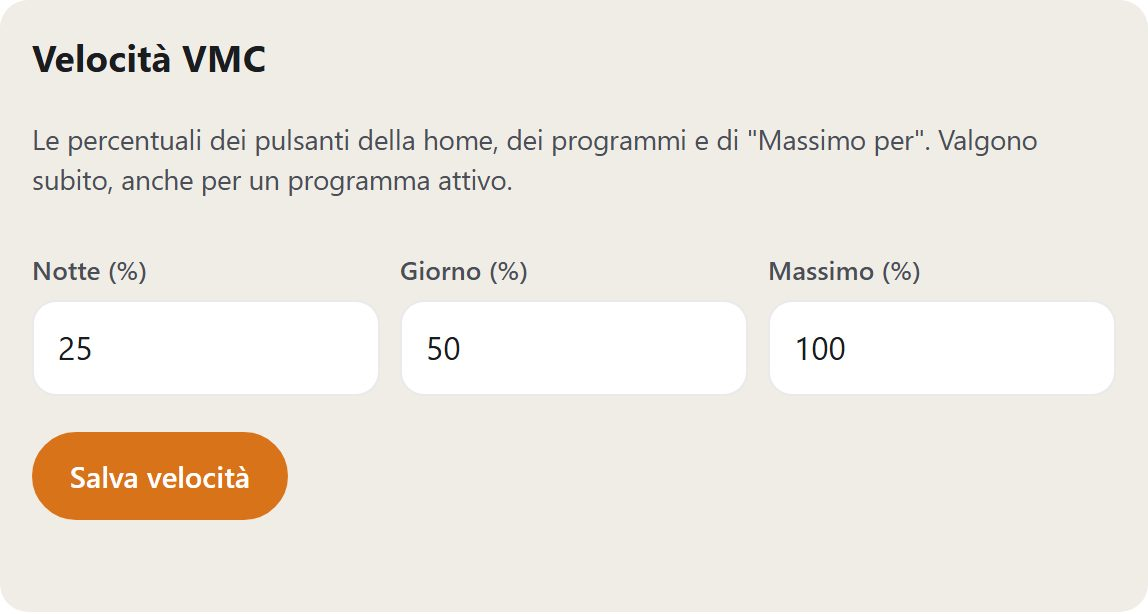
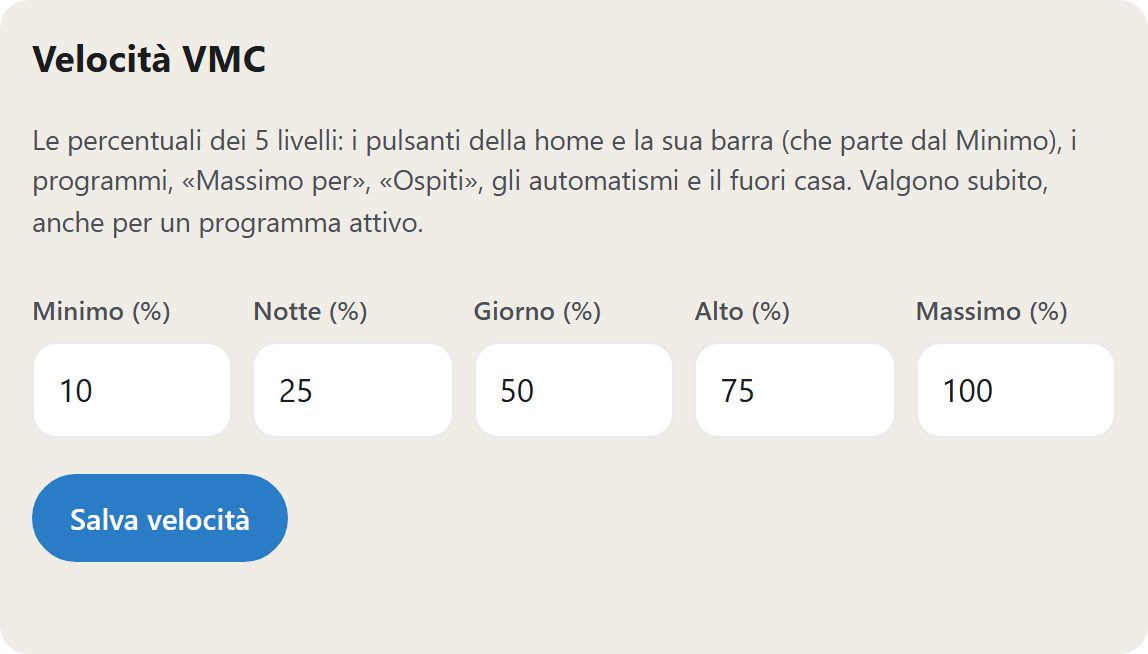
Docs: the VMC's five levels, slider, guests, filters and dry air
The administrator's guide (sections 4 and 20, the speeds screenshot with
five levels), the configuration reference and the changelog.

Changed region(s): [[0.0, 0.4023, 0.9756, 0.8664], [0.0305, 0.1857, 0.9451, 0.3713], [0.0305, 0.0619, 0.2439, 0.1238]]

diff --git a/src/localhome/web/static/guide/shelly-plus1-valvole.html b/src/localhome/web/static/guide/shelly-plus1-valvole.html
@@ -179,18 +179,25 @@ cloud. Internet serve solo per l'ora esatta (sezione 7).</p>
 
 <h2 id="s4">4. VMC</h2>
 <ul>
-  <li><strong>Dalla home</strong>: Spenta, Notte, Giorno o Massimo; oppure Massimo per 30 minuti, 1 o 2 ore, poi torna
-      com'era. Scegliere una velocità riaccende la VMC se era spenta.</li>
-  <li><strong>Programma</strong> (sulla scheda della VMC, nella home): Manuale, Giorno e notte (giorno 7–22), Fuori per
+  <li><strong>Dalla home</strong>: cinque livelli - Minimo, Notte, Giorno, Alto, Massimo - e una barra per la regolazione fine,
+      dal Minimo al 100%. Si accende e si spegne con il suo interruttore; un livello o la barra la riaccendono. Sotto il nome la
+      scheda dice sempre perché va a quella velocità: dal programma, scelta a mano fino alla prossima fascia, a tempo,
+      automatico, fuori casa.</li>
+  <li><strong>Per un po'</strong>: Massimo per 30 minuti, 1 o 2 ore (doccia, cucina), oppure <em>Ospiti</em>: Alto per 3 ore.
+      Poi torna com'era.</li>
+  <li><strong>Programma</strong> (sulla scheda della VMC, nella home, in una riga che si apre): Manuale, Giorno e notte (giorno 7–22), Fuori per
       lavoro, Mattina e sera intense, Personalizzato. Un programma cambia velocità solo quando inizia la sua fascia
       successiva: una velocità scelta a mano resta fino ad allora.</li>
-  <li><strong>Percentuali</strong> di Notte, Giorno e Massimo (di serie 25, 50 e 100%): admin → <em>Regolazioni
-      impianto</em> (sezione 20). Valgono subito.</li>
-  <li><strong>Fuori casa</strong>: nel foglio si sceglie <em>Notte</em> (di serie, ricorda l'ultima scelta) o <em>Spenta</em>.
+  <li><strong>Percentuali</strong> dei cinque livelli (di serie 10, 25, 50, 75 e 100%): admin → <em>Regolazioni
+      impianto</em> (sezione 20). Valgono subito; la barra parte dal Minimo. La AERA 320 gira anche al 5%, a 0% si spegne.</li>
+  <li><strong>Filtri</strong>: la scheda avvisa 14 giorni prima della pulizia e quando è ora, con <em>Puliti oggi</em>.
+      Intervallo e ultima pulizia in admin (sezione 20). Senza una pulizia segnata, nessun avviso.</li>
+  <li><strong>Fuori casa</strong>: nel foglio si sceglie <em>Minimo</em>, <em>Notte</em> (di serie, ricorda l'ultima scelta) o <em>Spenta</em>.
       Vince su tutto il resto: programma, automatismi, "Massimo per"; dalla home non si cambia, e se qualcuno la cambia
-      dall'app Shelly torna com'era entro un minuto. Al rientro torna al suo programma, o com'era prima. Notte ricambia ancora
-      l'aria della casa chiusa; Spenta risparmia di più, ma l'aria ristagna.</li>
-  <li><strong>Automatismi</strong> (spenti di serie, sezione 20): doccia, aria fuori più umida e raffrescamento notturno.
+      dall'app Shelly torna com'era entro un minuto. Al rientro torna al suo programma, o com'era prima. Minimo e Notte
+      ricambiano ancora l'aria della casa chiusa; Spenta risparmia di più, ma l'aria ristagna.</li>
+  <li><strong>Automatismi</strong> (spenti di serie, sezione 20): doccia, aria fuori più umida, raffrescamento notturno e
+      aria troppo secca d'inverno.
       Cambiano velocità sopra al programma, non accendono mai la VMC spenta, e una velocità scelta a mano li ferma finché
       il motivo non passa. La scheda della VMC dice quale è in corso e perché.</li>
   <li>Un riavvio della scheda non la tocca: resta alla velocità che aveva. Se non risponde, LocalHome la interroga sempre
@@ -584,9 +591,10 @@ Massimo (sezione 20) sono quelle vere.</p>
 </div>
 <div class="keep">
 <h3>VMC: admin → Regolazioni impianto → Velocità VMC</h3>
-<p>Notte, Giorno e Massimo in percentuale: le velocità dei pulsanti e dei programmi della home. Valgono subito. Il programma
-giorno/notte si sceglie dalla home, sulla scheda della VMC.</p>
-<figure class="shot wide"><img src="admin-vmc-velocita.jpg" alt="Admin, Velocità VMC: notte 25%, giorno 50%, massimo 100%"></figure>
+<p>I cinque livelli in percentuale, ognuno più alto del precedente: i pulsanti della home e la sua barra (che parte dal Minimo),
+i programmi, "Massimo per", "Ospiti", gli automatismi, il fuori casa. Valgono subito. Il programma si sceglie dalla home,
+sulla scheda della VMC.</p>
+<figure class="shot wide"><img src="admin-vmc-velocita.jpg" alt="Admin, Velocità VMC: minimo 10%, notte 25%, giorno 50%, alto 75%, massimo 100%"></figure>
 </div>
 <div class="keep">
 <h3>Automatismi VMC: admin → Regolazioni impianto → Automatismi VMC</h3>
@@ -599,11 +607,19 @@ giorno/notte si sceglie dalla home, sulla scheda della VMC.</p>
       spenta</td></tr>
   <tr><td>Raffrescamento notturno (estate)</td><td>Stanze da 24 °C, fuori almeno 3 °C più fresco, non sotto 16 °C e non più
       umido</td><td>Giorno, mai Massimo</td></tr>
+  <tr><td>Aria troppo secca (inverno)</td><td>Stanze sotto il 35% di umidità; finisce risalita di 3 punti</td><td>Notte, mai
+      spenta</td></tr>
 </table>
 <p>Conta la salita dell'umidità, non un valore fisso: d'estate il bagno è umido anche senza doccia. I 16 °C sono quelli del bypass
 estivo della VMC (sezione 4): sotto, l'aria passa dallo scambiatore e non raffresca. Le due estive vogliono la sonda
 esterna. I valori della doccia sono pensati per la soglia umidità dell'H&amp;T all'1% (sezione 5): un invio a ogni punto, la salita
 si vede entro un paio di minuti.</p>
+</div>
+<div class="keep">
+<h3>Filtri VMC: admin → Regolazioni impianto → Filtri VMC</h3>
+<p>Ogni quanti giorni pulire i filtri (di serie 90, come chiede il manuale) e quando è stato fatto l'ultima volta; <em>Filtri puliti
+oggi</em> fa ripartire il conto. La home avvisa 14 giorni prima e quando è ora; da lì si può segnare <em>Puliti oggi</em>. Finché
+non si segna una pulizia, nessun avviso.</p>
 </div>
 <div class="keep">
 <h3>Deumidificatore: admin → Stagione → Deumidificatore</h3>

diff --git a/docs/configuration.md b/docs/configuration.md
@@ -512,20 +512,33 @@ A file in the older form - `"day": {"at": "07:00", "value": 50},
 "night": {"at": "22:00", "value": 20}` in place of `week` - is still
 read, as the week it stands for.
 
-**The speeds themselves** - the percentages of night, day and boost - are
-set in the admin panel's VMC section (`config/vmc_speeds.json`), over
-the device's own `presets`, hand-written or the panel's defaults (25, 50,
-100). They're in use at once, no restart: the card's buttons and the
-ready-made programs show them, a running program's hours move to them
-(its night stays night), and a unit running at an old speed goes to its
-new value.
+**The speeds themselves** - five levels: minimum, night, day, high,
+boost - are set in the admin panel's VMC section (`config/vmc_speeds.json`),
+over the device's own `presets`, hand-written or the panel's defaults
+(10, 25, 50, 75, 100). Each must be faster than the one before. A device
+or a file with only night, day and boost (the older three) gets the
+other two worked out: the minimum at 10% under night (else half of it),
+high at 75% between day and boost (else halfway). They're in use at
+once, no restart: the card's buttons and its fine slider (from the
+minimum to 100%; off is the card's own switch) and the ready-made
+programs show them, a running program's hours move to them (its night
+stays night), and a unit running at an old speed goes to its new value.
+
+**The card** says under the VMC's name why it runs at that speed - the
+program, a hand pick until the program's next change, a timed speed, an
+automatic, away. Its timed speeds: boost for 30 min / 1 h / 2 h, and
+"guests", high for 3 h. **The filters' reminder** (`config/vmc_filters.json`,
+`services/vmc_filters.py`): the interval (90 days by default) and the
+day they were last cleaned, set in the admin panel; the card warns from
+14 days before and once due, with "cleaned today". No day recorded, no
+reminder.
 
 **A timed speed** ("Boost for 30 min / 1 h / 2 h" on the card) is the
 `override`: that speed until its end, then back to the program - or,
 with the program off, to the speed and on/off state from before. A
 speed picked by hand meanwhile ends it.
 
-**Away from home** the VMC runs at its night speed or is off - picked
+**Away from home** the VMC runs at its minimum or night speed, or is off - picked
 in the away sheet on the home page (`away_choice` in the file, night
 unless one is made; the API's `"vmc"` on `POST /api/climate/away`, with
 `"keep"` to leave it alone - what `tools/live_walk.py` sends). It wins
@@ -546,6 +559,7 @@ use at once:
 | Shower | the bathroom's humidity rises fast | boost; day in the quiet hours | +8 points within 10 min; over when back within 5 points of where it started, after 15 to 60 min |
 | Humid outside (summer) | the outdoor dew point above the reference room's | night (never off) | 1 °C over to start, back at the indoor dew point |
 | Night cooling (summer) | the house warm, the outdoor air cooler and no more humid | day | house from 24 °C, outside 3 °C cooler and not under 16 °C |
+| Dry air (winter) | the reference room's humidity under the threshold | night (never off) | under 35%, back 3 points over |
 
 The quiet hours (22-7) never get the boost - it's loud. The bathroom is
 the zone kept out of cooling and the reference room the first one

diff --git a/CHANGELOG.md b/CHANGELOG.md
@@ -14,6 +14,9 @@ date rather than by tag.
   one permissive.
 
 ### Fixed
+- **The VMC's program applied at startup, not a minute later.** The
+  loop's first check asked for the speeds before the app was ready, failed
+  and logged it, and the program's speed waited for the next check.
 - **Save, pressed right after typing a Shelly's id, saves.** Leaving the
   field starts the id's check, and the line it wrote under the field
   moved the button from under the pointer between press and release -
@@ -51,6 +54,20 @@ date rather than by tag.
   them in the background, so they were missing from it entirely).
 
 ### Added
+- **The VMC's card, redone, with five levels and a fine slider.** Minimum
+  (10%) and High (75%) join Night, Day and Boost - set in the admin panel
+  with the others, worked out from them for a device or a file with only
+  three. A slider for any speed between the minimum and 100%; on and off
+  is a switch of its own. Under its name the card says why it runs at that
+  speed (program, hand pick until the next change, timed, automatic,
+  away). "Guests": high for 3 hours, beside "Boost for". The program is a
+  line that opens. Away, the VMC can also be held at its minimum.
+- **The VMC filters' reminder**: how often and when last cleaned, set in
+  the admin panel; the home card warns two weeks before and once due, and
+  "cleaned today" starts it over. Nothing recorded, no reminder.
+- **Winter's dry-air automatic** (off by default, with the others): the
+  reference room under 35% humidity, the VMC at its night speed until it's
+  3 points over again.
 - **Away from home, the VMC at its night speed or off** - chosen in the
   away sheet (night unless chosen otherwise; the last choice is kept).
   It wins over the program, the automatics and a timed boost; the VMC's
